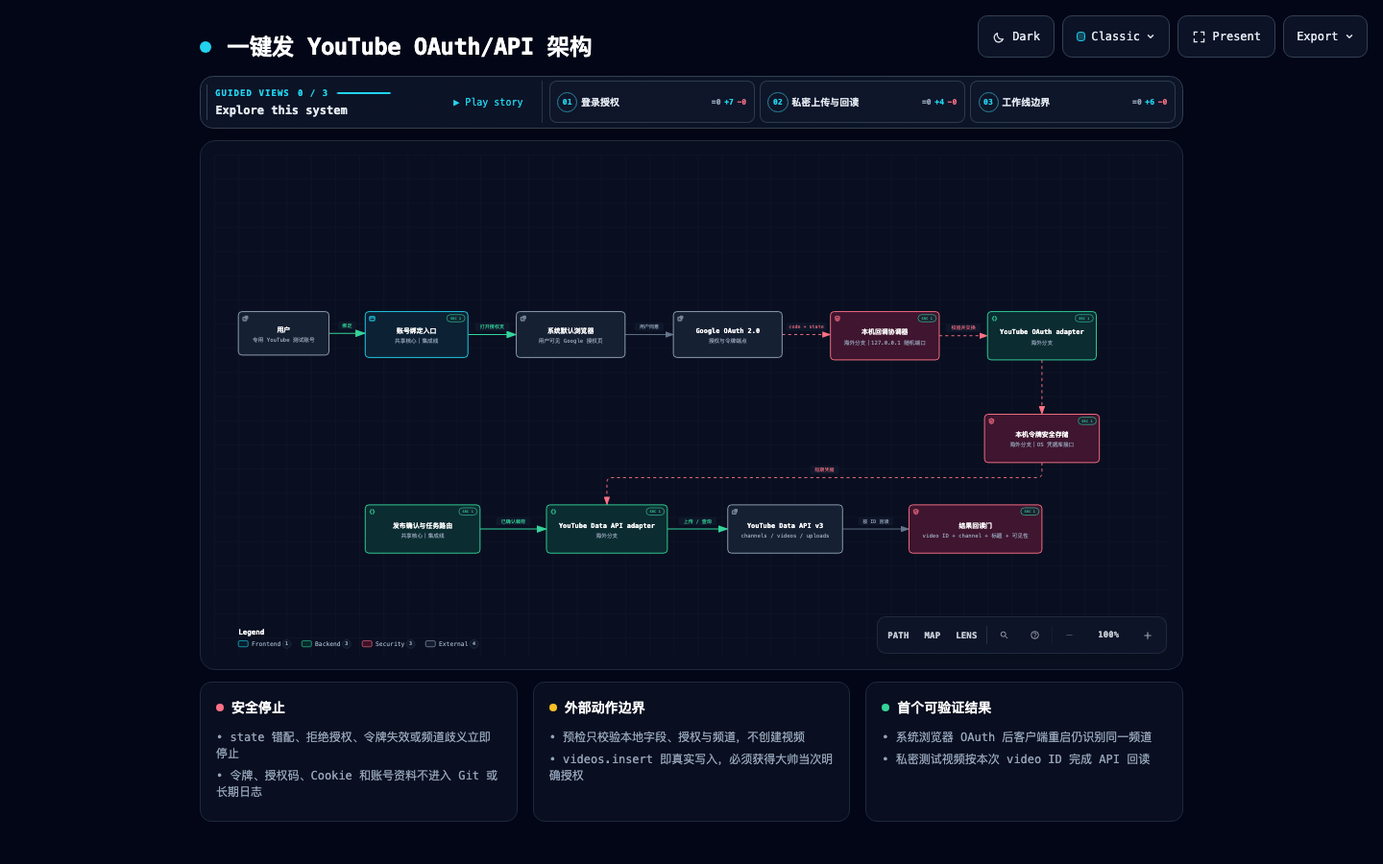
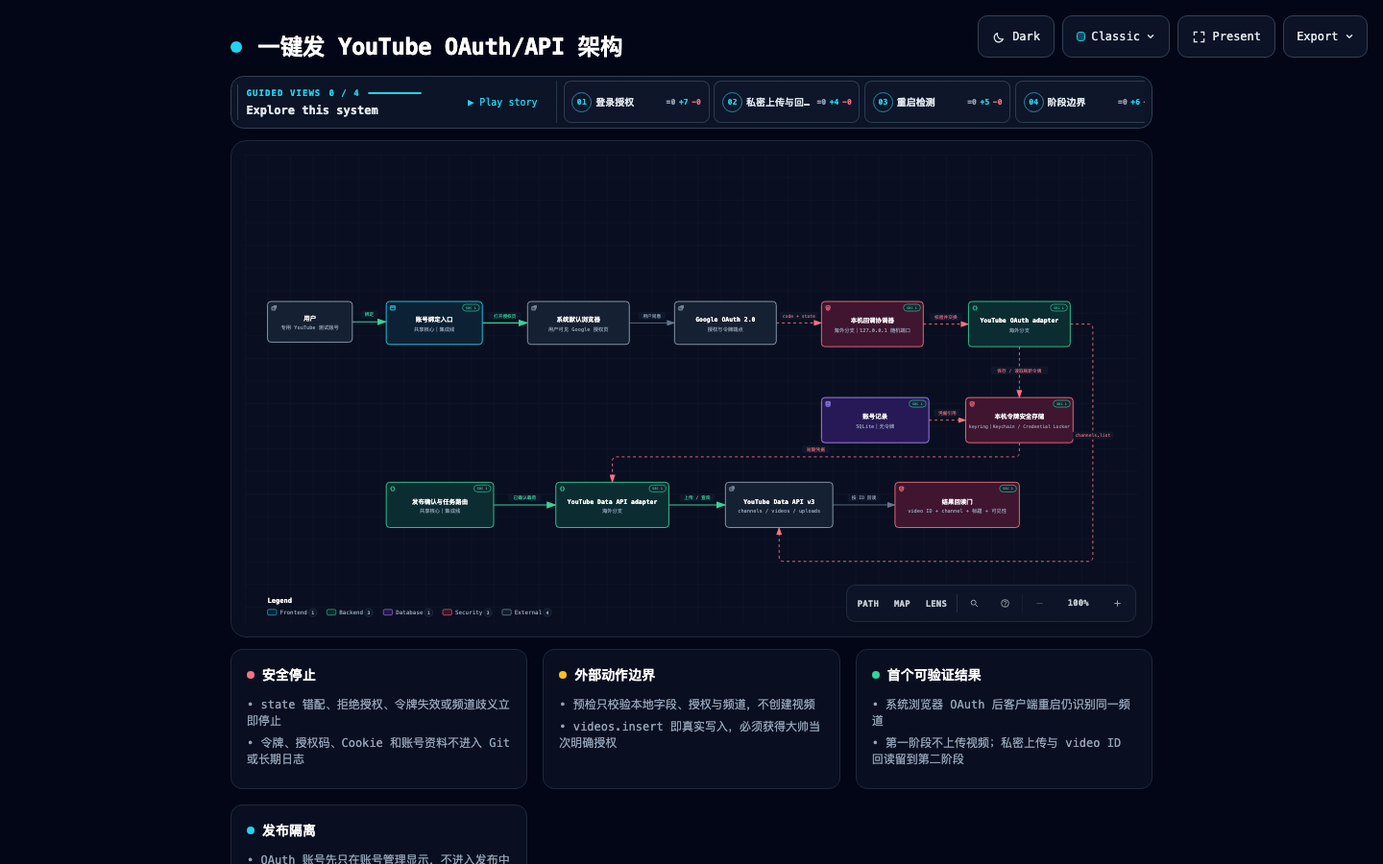
docs(overseas): record youtube desktop login boundary

diff --git a/docs/adr/2026-08-23-youtube-oauth-api-v3.architecture.html b/docs/adr/2026-08-23-youtube-oauth-api-v3.architecture.html
@@ -4869,8 +4869,8 @@
       </div>
     </div>
 
-    <script id="archify-guided-views-data" type="application/json">[{"id":"oauth-flow","label":"登录授权","focus":["user","account_ui","loopback","system_browser","google_oauth","oauth_adapter","token_vault"],"note":"系统浏览器授权，state 与 PKCE 校验后只通过安全存储接口保存刷新令牌。"},{"id":"upload-flow","label":"私密上传与回读","focus":["publish_core","youtube_adapter","youtube_api","receipt_gate"],"note":"未经正式审核时只验证私密上传，并按本次 video ID 回读频道、标题和可见性。"},{"id":"ownership","label":"工作线边界","focus":["account_ui","loopback","token_vault","publish_core","oauth_adapter","youtube_adapter"],"note":"海外分支实现回调、OAuth、凭据库接口与 API adapter；账号 UI 和全局路由由集成线接入。"}]</script>
-    <script id="archify-source-evidence-data" type="application/json">{"schemaVersion":1,"verified":true,"repository":{"url":"https://github.com/tianyiswl/oneclick-publisher","revision":"bf1935aa8683cf4e54cd753ffe9250d597e3fae2","shortRevision":"bf1935a"},"referenceCount":7,"nodes":{"account_ui":[{"path":"QUALITY_GATES.md","line":45,"endLine":57,"label":"共享 UI 边界","href":"https://github.com/tianyiswl/oneclick-publisher/blob/bf1935aa8683cf4e54cd753ffe9250d597e3fae2/QUALITY_GATES.md#L45-L57"}],"loopback":[{"path":"QUALITY_GATES.md","line":15,"endLine":22,"label":"海外专属范围","href":"https://github.com/tianyiswl/oneclick-publisher/blob/bf1935aa8683cf4e54cd753ffe9250d597e3fae2/QUALITY_GATES.md#L15-L22"}],"oauth_adapter":[{"path":"docs/OVERSEAS_PLATFORM_STATUS.md","line":39,"endLine":45,"label":"旧登录路线已阻断","href":"https://github.com/tianyiswl/oneclick-publisher/blob/bf1935aa8683cf4e54cd753ffe9250d597e3fae2/docs/OVERSEAS_PLATFORM_STATUS.md#L39-L45"}],"token_vault":[{"path":"docs/OVERSEAS_PLATFORM_STATUS.md","line":57,"endLine":61,"label":"凭据安全边界","href":"https://github.com/tianyiswl/oneclick-publisher/blob/bf1935aa8683cf4e54cd753ffe9250d597e3fae2/docs/OVERSEAS_PLATFORM_STATUS.md#L57-L61"}],"publish_core":[{"path":"QUALITY_GATES.md","line":122,"endLine":128,"label":"真实验收门槛","href":"https://github.com/tianyiswl/oneclick-publisher/blob/bf1935aa8683cf4e54cd753ffe9250d597e3fae2/QUALITY_GATES.md#L122-L128"}],"youtube_adapter":[{"path":"app_core/overseas_preflight.py","line":128,"endLine":211,"label":"现有预检回执合同","href":"https://github.com/tianyiswl/oneclick-publisher/blob/bf1935aa8683cf4e54cd753ffe9250d597e3fae2/app_core/overseas_preflight.py#L128-L211"}],"receipt_gate":[{"path":"app_core/overseas_video_publish.py","line":141,"endLine":191,"label":"成功回执合同","href":"https://github.com/tianyiswl/oneclick-publisher/blob/bf1935aa8683cf4e54cd753ffe9250d597e3fae2/app_core/overseas_video_publish.py#L141-L191"}]}}</script>
+    <script id="archify-guided-views-data" type="application/json">[{"id":"oauth-flow","label":"登录授权","focus":["user","account_ui","loopback","system_browser","google_oauth","oauth_adapter","token_vault"],"note":"系统浏览器授权，state 与 PKCE 校验后只通过安全存储接口保存刷新令牌。"},{"id":"upload-flow","label":"私密上传与回读","focus":["publish_core","youtube_adapter","youtube_api","receipt_gate"],"note":"未经正式审核时只验证私密上传，并按本次 video ID 回读频道、标题和可见性。"},{"id":"restart-check","label":"重启检测","focus":["account_ui","account_store","token_vault","oauth_adapter","youtube_api"],"note":"数据库只保存凭据引用和频道 ID；重启后从系统凭据库刷新令牌并重新读取同一频道。"},{"id":"ownership","label":"阶段边界","focus":["account_ui","account_store","token_vault","publish_core","oauth_adapter","youtube_adapter"],"note":"第一阶段只接账号登录与重启检测；OAuth 账号在官方发布路由接通前不进入发布目标。"}]</script>
+    <script id="archify-source-evidence-data" type="application/json">{"schemaVersion":1,"verified":true,"repository":{"url":"https://github.com/tianyiswl/oneclick-publisher","revision":"b08a29b016ac633b7335b463250d4e690b49160c","shortRevision":"b08a29b"},"referenceCount":8,"nodes":{"account_ui":[{"path":"QUALITY_GATES.md","line":45,"endLine":57,"label":"共享 UI 边界","href":"https://github.com/tianyiswl/oneclick-publisher/blob/b08a29b016ac633b7335b463250d4e690b49160c/QUALITY_GATES.md#L45-L57"}],"loopback":[{"path":"QUALITY_GATES.md","line":15,"endLine":22,"label":"海外专属范围","href":"https://github.com/tianyiswl/oneclick-publisher/blob/b08a29b016ac633b7335b463250d4e690b49160c/QUALITY_GATES.md#L15-L22"}],"oauth_adapter":[{"path":"docs/OVERSEAS_PLATFORM_STATUS.md","line":39,"endLine":45,"label":"旧登录路线已阻断","href":"https://github.com/tianyiswl/oneclick-publisher/blob/b08a29b016ac633b7335b463250d4e690b49160c/docs/OVERSEAS_PLATFORM_STATUS.md#L39-L45"}],"token_vault":[{"path":"docs/OVERSEAS_PLATFORM_STATUS.md","line":57,"endLine":61,"label":"凭据安全边界","href":"https://github.com/tianyiswl/oneclick-publisher/blob/b08a29b016ac633b7335b463250d4e690b49160c/docs/OVERSEAS_PLATFORM_STATUS.md#L57-L61"}],"account_store":[{"path":"app_core/database.py","line":142,"endLine":143,"label":"账号授权字段","href":"https://github.com/tianyiswl/oneclick-publisher/blob/b08a29b016ac633b7335b463250d4e690b49160c/app_core/database.py#L142-L143"}],"publish_core":[{"path":"QUALITY_GATES.md","line":122,"endLine":128,"label":"真实验收门槛","href":"https://github.com/tianyiswl/oneclick-publisher/blob/b08a29b016ac633b7335b463250d4e690b49160c/QUALITY_GATES.md#L122-L128"}],"youtube_adapter":[{"path":"app_core/overseas_preflight.py","line":128,"endLine":211,"label":"现有预检回执合同","href":"https://github.com/tianyiswl/oneclick-publisher/blob/b08a29b016ac633b7335b463250d4e690b49160c/app_core/overseas_preflight.py#L128-L211"}],"receipt_gate":[{"path":"app_core/overseas_video_publish.py","line":141,"endLine":191,"label":"成功回执合同","href":"https://github.com/tianyiswl/oneclick-publisher/blob/b08a29b016ac633b7335b463250d4e690b49160c/app_core/overseas_video_publish.py#L141-L191"}]}}</script>
     <div class="guided-views no-print" id="guided-views" hidden aria-label="Guided diagram views">
       <button id="guided-view-prev" type="button" aria-label="Previous guided view" title="Previous guided view ([)">&#8592;</button>
       <div class="guided-view-copy">
@@ -4946,11 +4946,13 @@
         <path data-edge-from="system_browser" data-edge-to="google_oauth" data-edge-label="用户同意" data-edge-key="2" data-edge-id="browser-consent" data-composition-points="680,298;760,298" d="M 680 298 L 760 298" class="a-default" stroke-width="1.5" marker-end="url(#arrowhead)"/>
         <path data-edge-from="google_oauth" data-edge-to="loopback" data-edge-label="code + state" data-edge-key="3" data-edge-id="oauth-callback" data-composition-points="940,298;1020,298" d="M 940 298 L 1020 298" class="a-security" stroke-width="1.5" marker-end="url(#arrowhead-security)"/>
         <path data-edge-from="loopback" data-edge-to="oauth_adapter" data-edge-label="校验并交换" data-edge-key="4" data-edge-id="callback-adapter" data-composition-points="1200,300;1280,300" d="M 1200 300 L 1280 300" class="a-security" stroke-width="1.5" marker-end="url(#arrowhead-security)"/>
-        <path data-edge-from="oauth_adapter" data-edge-to="token_vault" data-edge-key="5" data-edge-id="adapter-vault" data-composition-points="1370,340;1370,430" d="M 1370 340 L 1370 430" class="a-security" stroke-width="1.5" marker-end="url(#arrowhead-security)"/>
-        <path data-edge-from="publish_core" data-edge-to="youtube_adapter" data-edge-label="已确认载荷" data-edge-key="6" data-edge-id="publish-adapter" data-composition-points="440,620;550,620" d="M 440 620 L 550 620" class="a-emphasis" stroke-width="1.8" marker-end="url(#arrowhead-emphasis)"/>
-        <path data-edge-from="token_vault" data-edge-to="youtube_adapter" data-edge-label="短期凭据" data-edge-key="7" data-edge-id="vault-api" data-composition-points="1370,510;1370,535;650,535;650,580" d="M 1370 510 L 1370 527 Q 1370 535 1362 535 L 658 535 Q 650 535 650 543 L 650 580" class="a-security" stroke-width="1.5" marker-end="url(#arrowhead-security)"/>
-        <path data-edge-from="youtube_adapter" data-edge-to="youtube_api" data-edge-label="上传 / 查询" data-edge-key="8" data-edge-id="api-call" data-composition-points="750,620;850,620" d="M 750 620 L 850 620" class="a-emphasis" stroke-width="1.8" marker-end="url(#arrowhead-emphasis)"/>
-        <path data-edge-from="youtube_api" data-edge-to="receipt_gate" data-edge-label="按 ID 回读" data-edge-key="9" data-edge-id="api-receipt" data-composition-points="1040,620;1150,620" d="M 1040 620 L 1150 620" class="a-default" stroke-width="1.5" marker-end="url(#arrowhead)"/>
+        <path data-edge-from="oauth_adapter" data-edge-to="token_vault" data-edge-label="保存 / 读取刷新令牌" data-edge-key="5" data-edge-id="adapter-vault" data-composition-points="1370,340;1370,430" d="M 1370 340 L 1370 430" class="a-security" stroke-width="1.5" marker-end="url(#arrowhead-security)"/>
+        <path data-edge-from="account_store" data-edge-to="token_vault" data-edge-label="凭据引用" data-edge-key="6" data-edge-id="account-vault" data-composition-points="1210,470;1275,470" d="M 1210 470 L 1275 470" class="a-security" stroke-width="1.5" marker-end="url(#arrowhead-security)"/>
+        <path data-edge-from="oauth_adapter" data-edge-to="youtube_api" data-edge-label="channels.list" data-edge-key="7" data-edge-id="oauth-channel" data-composition-points="1460,300;1500,300;1500,720;945,720;945,660" d="M 1460 300 L 1492 300 Q 1500 300 1500 308 L 1500 712 Q 1500 720 1492 720 L 953 720 Q 945 720 945 712 L 945 660" class="a-security" stroke-width="1.5" marker-end="url(#arrowhead-security)"/>
+        <path data-edge-from="publish_core" data-edge-to="youtube_adapter" data-edge-label="已确认载荷" data-edge-key="8" data-edge-id="publish-adapter" data-composition-points="440,620;550,620" d="M 440 620 L 550 620" class="a-emphasis" stroke-width="1.8" marker-end="url(#arrowhead-emphasis)"/>
+        <path data-edge-from="token_vault" data-edge-to="youtube_adapter" data-edge-label="短期凭据" data-edge-key="9" data-edge-id="vault-api" data-composition-points="1370,510;1370,535;650,535;650,580" d="M 1370 510 L 1370 527 Q 1370 535 1362 535 L 658 535 Q 650 535 650 543 L 650 580" class="a-security" stroke-width="1.5" marker-end="url(#arrowhead-security)"/>
+        <path data-edge-from="youtube_adapter" data-edge-to="youtube_api" data-edge-label="上传 / 查询" data-edge-key="10" data-edge-id="api-call" data-composition-points="750,620;850,620" d="M 750 620 L 850 620" class="a-emphasis" stroke-width="1.8" marker-end="url(#arrowhead-emphasis)"/>
+        <path data-edge-from="youtube_api" data-edge-to="receipt_gate" data-edge-label="按 ID 回读" data-edge-key="11" data-edge-id="api-receipt" data-composition-points="1040,620;1150,620" d="M 1040 620 L 1150 620" class="a-default" stroke-width="1.5" marker-end="url(#arrowhead)"/>
 
         <!-- Components -->
         <g id="node-user" data-node-id="user" data-node-label="用户" tabindex="0" role="button" aria-label="Focus 用户, 专用 YouTube 测试账号, Architecture component" aria-pressed="false" data-node-kind="external" data-node-sublabel="专用 YouTube 测试账号" data-node-context="Architecture component">
@@ -5030,8 +5032,8 @@
         <text data-detail="fine" x="1370" y="332" class="t-backend" font-size="7" text-anchor="middle">最小 scope</text>
         </g>
 
-        <g id="node-token_vault" data-node-id="token_vault" data-node-label="本机令牌安全存储" tabindex="0" role="button" aria-label="Focus 本机令牌安全存储, 海外分支｜OS 凭据库接口, Architecture component" aria-pressed="false" data-node-kind="security" data-node-sublabel="海外分支｜OS 凭据库接口" data-node-tag="token reference" data-node-context="Architecture component">
-          <title>本机令牌安全存储 · 海外分支｜OS 凭据库接口 · Architecture component · token reference</title>
+        <g id="node-token_vault" data-node-id="token_vault" data-node-label="本机令牌安全存储" tabindex="0" role="button" aria-label="Focus 本机令牌安全存储, keyring｜Keychain / Credential Locker, Architecture component" aria-pressed="false" data-node-kind="security" data-node-sublabel="keyring｜Keychain / Credential Locker" data-node-tag="token reference" data-node-context="Architecture component">
+          <title>本机令牌安全存储 · keyring｜Keychain / Credential Locker · Architecture component · token reference</title>
           <rect x="1275" y="430" width="190" height="80" rx="6" class="c-mask"/>
           <rect x="1275" y="430" width="190" height="80" rx="6" class="c-security" stroke-width="1.5"/>
           <g aria-hidden="true" data-semantic-sigil="security" class="semantic-sigil s-security" transform="translate(1281 436) scale(0.6875)">
@@ -5039,12 +5041,25 @@
             <path d="m5.8 8 1.5 1.5 3-3"/>
           </g>
           <text data-detail-anchor x="1370" y="468" class="t-primary" font-size="11" font-weight="600" text-anchor="middle">本机令牌安全存储</text>
-        <text data-detail="context" x="1370" y="484" class="t-muted" font-size="9" text-anchor="middle">海外分支｜OS 凭据库接口</text>
+        <text data-detail="context" x="1370" y="484" class="t-muted" font-size="8.1" text-anchor="middle">keyring｜Keychain / Credential Locker</text>
         <text data-detail="fine" x="1370" y="502" class="t-security" font-size="7" text-anchor="middle">token reference</text>
         </g>
 
-        <g id="node-publish_core" data-node-id="publish_core" data-node-label="发布确认与任务路由" tabindex="0" role="button" aria-label="Focus 发布确认与任务路由, 共享核心｜集成线, Architecture component" aria-pressed="false" data-node-kind="backend" data-node-sublabel="共享核心｜集成线" data-node-tag="当次明确授权" data-node-context="Architecture component">
-          <title>发布确认与任务路由 · 共享核心｜集成线 · Architecture component · 当次明确授权</title>
+        <g id="node-account_store" data-node-id="account_store" data-node-label="账号记录" tabindex="0" role="button" aria-label="Focus 账号记录, SQLite｜无令牌, Architecture component" aria-pressed="false" data-node-kind="database" data-node-sublabel="SQLite｜无令牌" data-node-tag="credential ref + channel ID" data-node-context="Architecture component">
+          <title>账号记录 · SQLite｜无令牌 · Architecture component · credential ref + channel ID</title>
+          <rect x="1020" y="430" width="190" height="80" rx="6" class="c-mask"/>
+          <rect x="1020" y="430" width="190" height="80" rx="6" class="c-database" stroke-width="1.5"/>
+          <g aria-hidden="true" data-semantic-sigil="database" class="semantic-sigil s-database" transform="translate(1026 436) scale(0.6875)">
+            <ellipse cx="8" cy="4" rx="5" ry="2"/>
+            <path d="M3 4v8c0 1.1 2.2 2 5 2s5-.9 5-2V4M3 8c0 1.1 2.2 2 5 2s5-.9 5-2"/>
+          </g>
+          <text data-detail-anchor x="1115" y="468" class="t-primary" font-size="11" font-weight="600" text-anchor="middle">账号记录</text>
+        <text data-detail="context" x="1115" y="484" class="t-muted" font-size="9" text-anchor="middle">SQLite｜无令牌</text>
+        <text data-detail="fine" x="1115" y="502" class="t-database" font-size="7" text-anchor="middle">credential ref + channel ID</text>
+        </g>
+
+        <g id="node-publish_core" data-node-id="publish_core" data-node-label="发布确认与任务路由" tabindex="0" role="button" aria-label="Focus 发布确认与任务路由, 共享核心｜集成线, Architecture component" aria-pressed="false" data-node-kind="backend" data-node-sublabel="共享核心｜集成线" data-node-tag="第二阶段接线" data-node-context="Architecture component">
+          <title>发布确认与任务路由 · 共享核心｜集成线 · Architecture component · 第二阶段接线</title>
           <rect x="250" y="580" width="190" height="80" rx="6" class="c-mask"/>
           <rect x="250" y="580" width="190" height="80" rx="6" class="c-backend" stroke-width="1.5"/>
           <g aria-hidden="true" data-semantic-sigil="backend" class="semantic-sigil s-backend" transform="translate(256 586) scale(0.6875)">
@@ -5052,11 +5067,11 @@
           </g>
           <text data-detail-anchor x="345" y="618" class="t-primary" font-size="11" font-weight="600" text-anchor="middle">发布确认与任务路由</text>
         <text data-detail="context" x="345" y="634" class="t-muted" font-size="9" text-anchor="middle">共享核心｜集成线</text>
-        <text data-detail="fine" x="345" y="652" class="t-backend" font-size="7" text-anchor="middle">当次明确授权</text>
+        <text data-detail="fine" x="345" y="652" class="t-backend" font-size="7" text-anchor="middle">第二阶段接线</text>
         </g>
 
-        <g id="node-youtube_adapter" data-node-id="youtube_adapter" data-node-label="YouTube Data API adapter" tabindex="0" role="button" aria-label="Focus YouTube Data API adapter, 海外分支, Architecture component" aria-pressed="false" data-node-kind="backend" data-node-sublabel="海外分支" data-node-tag="私密优先" data-node-context="Architecture component">
-          <title>YouTube Data API adapter · 海外分支 · Architecture component · 私密优先</title>
+        <g id="node-youtube_adapter" data-node-id="youtube_adapter" data-node-label="YouTube Data API adapter" tabindex="0" role="button" aria-label="Focus YouTube Data API adapter, 海外分支, Architecture component" aria-pressed="false" data-node-kind="backend" data-node-sublabel="海外分支" data-node-tag="当前不对 UI 开放" data-node-context="Architecture component">
+          <title>YouTube Data API adapter · 海外分支 · Architecture component · 当前不对 UI 开放</title>
           <rect x="550" y="580" width="200" height="80" rx="6" class="c-mask"/>
           <rect x="550" y="580" width="200" height="80" rx="6" class="c-backend" stroke-width="1.5"/>
           <g aria-hidden="true" data-semantic-sigil="backend" class="semantic-sigil s-backend" transform="translate(556 586) scale(0.6875)">
@@ -5064,7 +5079,7 @@
           </g>
           <text data-detail-anchor x="650" y="618" class="t-primary" font-size="11" font-weight="600" text-anchor="middle">YouTube Data API adapter</text>
         <text data-detail="context" x="650" y="634" class="t-muted" font-size="9" text-anchor="middle">海外分支</text>
-        <text data-detail="fine" x="650" y="652" class="t-backend" font-size="7" text-anchor="middle">私密优先</text>
+        <text data-detail="fine" x="650" y="652" class="t-backend" font-size="7" text-anchor="middle">当前不对 UI 开放</text>
         </g>
 
         <g id="node-youtube_api" data-node-id="youtube_api" data-node-label="YouTube Data API v3" tabindex="0" role="button" aria-label="Focus YouTube Data API v3, channels / videos / uploads, Architecture component" aria-pressed="false" data-node-kind="external" data-node-sublabel="channels / videos / uploads" data-node-context="Architecture component">
@@ -5113,20 +5128,31 @@
           <rect x="1211" y="280" width="58" height="14" rx="3" class="c-mask"/>
           <text x="1240" y="290" class="t-security" font-size="8" text-anchor="middle">校验并交换</text>
         </g>
-
-        <g data-detail="context" data-edge-from="publish_core" data-edge-to="youtube_adapter" data-edge-label="已确认载荷" data-edge-key="6" data-edge-id="publish-adapter">
+        <g data-detail="context" data-edge-from="oauth_adapter" data-edge-to="token_vault" data-edge-label="保存 / 读取刷新令牌" data-edge-key="5" data-edge-id="adapter-vault">
+          <rect x="1319.4" y="375" width="101.2" height="14" rx="3" class="c-mask"/>
+          <text x="1370" y="385" class="t-security" font-size="8" text-anchor="middle">保存 / 读取刷新令牌</text>
+        </g>
+        <g data-detail="context" data-edge-from="account_store" data-edge-to="token_vault" data-edge-label="凭据引用" data-edge-key="6" data-edge-id="account-vault">
+          <rect x="1218.3" y="450" width="48.4" height="14" rx="3" class="c-mask"/>
+          <text x="1242.5" y="460" class="t-security" font-size="8" text-anchor="middle">凭据引用</text>
+        </g>
+        <g data-detail="context" data-edge-from="oauth_adapter" data-edge-to="youtube_api" data-edge-label="channels.list" data-edge-key="7" data-edge-id="oauth-channel">
+          <rect x="1463.8" y="490" width="72.4" height="14" rx="3" class="c-mask"/>
+          <text x="1500" y="500" class="t-security" font-size="8" text-anchor="middle">channels.list</text>
+        </g>
+        <g data-detail="context" data-edge-from="publish_core" data-edge-to="youtube_adapter" data-edge-label="已确认载荷" data-edge-key="8" data-edge-id="publish-adapter">
           <rect x="466" y="600" width="58" height="14" rx="3" class="c-mask"/>
           <text x="495" y="610" class="t-backend" font-size="8" text-anchor="middle">已确认载荷</text>
         </g>
-        <g data-detail="context" data-edge-from="token_vault" data-edge-to="youtube_adapter" data-edge-label="短期凭据" data-edge-key="7" data-edge-id="vault-api">
+        <g data-detail="context" data-edge-from="token_vault" data-edge-to="youtube_adapter" data-edge-label="短期凭据" data-edge-key="9" data-edge-id="vault-api">
           <rect x="985.8" y="515" width="48.4" height="14" rx="3" class="c-mask"/>
           <text x="1010" y="525" class="t-security" font-size="8" text-anchor="middle">短期凭据</text>
         </g>
-        <g data-detail="context" data-edge-from="youtube_adapter" data-edge-to="youtube_api" data-edge-label="上传 / 查询" data-edge-key="8" data-edge-id="api-call">
+        <g data-detail="context" data-edge-from="youtube_adapter" data-edge-to="youtube_api" data-edge-label="上传 / 查询" data-edge-key="10" data-edge-id="api-call">
           <rect x="768.6" y="600" width="62.8" height="14" rx="3" class="c-mask"/>
           <text x="800" y="610" class="t-backend" font-size="8" text-anchor="middle">上传 / 查询</text>
         </g>
-        <g data-detail="context" data-edge-from="youtube_api" data-edge-to="receipt_gate" data-edge-label="按 ID 回读" data-edge-key="9" data-edge-id="api-receipt">
+        <g data-detail="context" data-edge-from="youtube_api" data-edge-to="receipt_gate" data-edge-label="按 ID 回读" data-edge-key="11" data-edge-id="api-receipt">
           <rect x="1066" y="600" width="58" height="14" rx="3" class="c-mask"/>
           <text x="1095" y="610" class="t-muted" font-size="8" text-anchor="middle">按 ID 回读</text>
         </g>
@@ -5142,13 +5168,17 @@
             <rect x="145" y="805" width="16" height="10" rx="2.5" class="c-backend" stroke-width="1"/>
             <text x="167" y="814" class="t-muted" font-size="10" font-weight="500">Backend</text>
           </g>
-          <g data-legend-semantic-kind="security" data-legend-kind="security" data-legend-label="Security" data-legend-x="245" data-legend-baseline="814" data-legend-width="83">
-            <rect x="245" y="805" width="16" height="10" rx="2.5" class="c-security" stroke-width="1"/>
-            <text x="267" y="814" class="t-muted" font-size="10" font-weight="500">Security</text>
+          <g data-legend-semantic-kind="database" data-legend-kind="database" data-legend-label="Database" data-legend-x="245" data-legend-baseline="814" data-legend-width="83">
+            <rect x="245" y="805" width="16" height="10" rx="2.5" class="c-database" stroke-width="1"/>
+            <text x="267" y="814" class="t-muted" font-size="10" font-weight="500">Database</text>
           </g>
-          <g data-legend-semantic-kind="external" data-legend-kind="external" data-legend-label="External" data-legend-x="350" data-legend-baseline="814" data-legend-width="83">
-            <rect x="350" y="805" width="16" height="10" rx="2.5" class="c-external" stroke-width="1"/>
-            <text x="372" y="814" class="t-muted" font-size="10" font-weight="500">External</text>
+          <g data-legend-semantic-kind="security" data-legend-kind="security" data-legend-label="Security" data-legend-x="350" data-legend-baseline="814" data-legend-width="83">
+            <rect x="350" y="805" width="16" height="10" rx="2.5" class="c-security" stroke-width="1"/>
+            <text x="372" y="814" class="t-muted" font-size="10" font-weight="500">Security</text>
+          </g>
+          <g data-legend-semantic-kind="external" data-legend-kind="external" data-legend-label="External" data-legend-x="455" data-legend-baseline="814" data-legend-width="83">
+            <rect x="455" y="805" width="16" height="10" rx="2.5" class="c-external" stroke-width="1"/>
+            <text x="477" y="814" class="t-muted" font-size="10" font-weight="500">External</text>
           </g>
         </g>
       </svg>
@@ -5364,7 +5394,18 @@
         </div>
         <ul>
           <li>&bull; 系统浏览器 OAuth 后客户端重启仍识别同一频道</li>
-          <li>&bull; 私密测试视频按本次 video ID 完成 API 回读</li>
+          <li>&bull; 第一阶段不上传视频；私密上传与 video ID 回读留到第二阶段</li>
+        </ul>
+      </div>
+
+      <div class="card">
+        <div class="card-header">
+          <div class="card-dot cyan"></div>
+          <h3>发布隔离</h3>
+        </div>
+        <ul>
+          <li>&bull; OAuth 账号先只在账号管理显示，不进入发布中心</li>
+          <li>&bull; 官方发布路由接通并单独验证后才开放选择</li>
         </ul>
       </div>
     </div>

diff --git a/docs/adr/2026-08-23-youtube-oauth-api-v3.architecture.visual-check.html b/docs/adr/2026-08-23-youtube-oauth-api-v3.architecture.visual-check.html
@@ -9,15 +9,15 @@
 </style>
 </head>
 <body>
-<header><h1>Archify visual-check</h1><p>2026-08-23-youtube-oauth-api-v3.architecture.html · automated containment pass · visual review pending</p></header>
+<header><h1>Archify visual-check</h1><p>2026-08-23-youtube-oauth-api-v3.architecture.html · automated containment fail · visual review pending</p></header>
 <main class="grid">
       <figure>
         <img src="2026-08-23-youtube-oauth-api-v3.architecture.visual-check.1440x900.light.png" alt="light 1440 by 900">
-        <figcaption><strong>LIGHT</strong> · 1440×900 · containment pass</figcaption>
+        <figcaption><strong>LIGHT</strong> · 1440×900 · containment fail</figcaption>
       </figure>
       <figure>
         <img src="2026-08-23-youtube-oauth-api-v3.architecture.visual-check.1440x900.dark.png" alt="dark 1440 by 900">
-        <figcaption><strong>DARK</strong> · 1440×900 · containment pass</figcaption>
+        <figcaption><strong>DARK</strong> · 1440×900 · containment fail</figcaption>
       </figure>
       <figure>
         <img src="2026-08-23-youtube-oauth-api-v3.architecture.visual-check.2048x1320.light.png" alt="light 2048 by 1320">

diff --git a/docs/OVERSEAS_PLATFORM_STATUS.md b/docs/OVERSEAS_PLATFORM_STATUS.md
@@ -2,27 +2,31 @@
 
 ## 统一执行原则
 
-海外平台统一使用一键发自己的本地浏览器会话，不要求用户申请开发者应用，
-也不提供开发者配置或接口授权入口。登录、会话保存、素材填写与结果记录都在
-一键发客户端内完成，不需要启动蚁小二客户端。
+TikTok、Instagram Reels 和 Facebook Reels 继续使用一键发自己的本地浏览器
+会话。YouTube 改用 Google 官方桌面 OAuth：用户在系统默认浏览器授权，刷新令牌
+只进入 macOS Keychain 或 Windows Credential Locker，SQLite 只保存不含令牌的引用
+和频道 ID。YouTube 因此需要 Google Cloud 桌面 OAuth 客户端 ID，但不需要用户逐个
+申请开发者应用。
 
-该产品路线目前仍是浏览器会话路线。下文记录的 YouTube 官方 OAuth/API 适配器
-只是本分支的本地、离线实现，尚未接入共享界面、账号持久化或发布路由，也没有
-接入操作系统凭据存储；它不改变现有产品入口或任何平台的真实可用状态。
+本分支已经完成 YouTube 登录、账号保存和客户端重启检测的本地接线；其中共享界面
+和账户服务改动仍须集成线审查，尚未进入正式客户端。YouTube OAuth 账号在官方发布
+路由接通前不会出现在发布中心，当前也没有配置真实 Google 项目或执行真实授权。
 
 | 平台 | 账号登录与检测 | 视频预检 | 正式动作 | 当前边界 |
 | --- | --- | --- | --- | --- |
 | TikTok | 可见登录、自动保存、静默检测 | 上传并填写文案，停在 Post 前 | 用户确认后可见浏览器立即发布 | 强制公开；定时、AI 声明和自定义封面暂不开放 |
-| YouTube | 可见登录、自动保存、静默检测 | 单账号单视频上传并逐字段回读，停在 SAVE/Publish 前 | 用户确认后可见浏览器立即保存/发布 | 预检已上传视频，关闭流程后平台可能保留私密内容；定时尚未开放 |
+| YouTube | 系统浏览器 OAuth、Keychain/Credential Locker 保存、重启后同频道检测；仅本地测试通过 | 官方 API 零写入本地预检已实现，尚未接发布中心 | 未开放 | 共享接线待集成审查；无真实 Google 项目、账号或上传证据 |
 | Instagram Reels | 与 Facebook 共用 Meta 会话 | 选择 Instagram 目标并填写 Reels | 可见浏览器二次确认后执行 | 验证码、双重验证、风控或未知提示会停止 |
 | Facebook Reels | 与 Instagram 共用 Meta 会话 | 选择 Facebook 目标并填写 Reels | 可见浏览器二次确认后执行 | 只有明确平台回执才记为成功 |
 
 ## 客户端入口
 
-- “绑定账号”在一键发独立浏览器会话中打开平台官网，用户完成登录后自动保存。
+- TikTok 和 Meta 的“绑定账号”在一键发独立浏览器会话中打开平台官网。
+- YouTube 的“绑定账号”在系统默认浏览器打开 Google 官方授权页，授权完成后自动保存频道身份和系统凭据引用；不提供手动保存 Cookie 的回退按钮。
 - “检测登录”默认静默，只检查已保存会话；异常时提示用户手动重新登录，不自动弹出登录页。
 - Instagram 与 Facebook 共用一次 Meta 登录，但在账号列表和发布目标中分别显示。
-- 账号列表只保存平台、主体、显示名、本地会话引用与检测状态。
+- YouTube OAuth 账号会显示在账号管理，但不会进入现有浏览器发布账号列表；其他平台行为不变。
+- 账号数据库不保存 YouTube 刷新令牌或访问令牌，只保存平台、主体、显示名、系统凭据引用、频道 ID 与检测状态。
 
 ## 当前发布门槛
 
@@ -42,11 +46,20 @@
 
 ## 2026-08-23 YouTube 官方 OAuth/API 适配器边界
 
-- 本分支新增的 Google OAuth 和 YouTube 私密上传适配器已经在本地实现，并只用假 HTTP 响应完成离线测试。它们没有接入共享 UI、账号持久化、发布路由或操作系统凭据存储，因此客户端当前不能通过这套适配器完成授权或上传。
+- Google OAuth 和 YouTube 私密上传适配器已经在本地实现，并只用假 HTTP 响应完成离线测试。2026-08-27 又完成了系统浏览器登录、账号持久化、操作系统凭据库和重启检测的分支接线；共享接线提交仍待集成线审查，因此正式客户端当前仍不能通过这套适配器完成授权。私密上传适配器仍未接入共享发布路由。
 - 产品分支没有配置 Google Cloud 项目或 OAuth 客户端。没有进行真实系统浏览器授权、频道身份读取、客户端重启后的登录检测、私密上传、处理完成回执或公开视频结果验证。
 - 本地预检是零写入；私密上传适配器必须取得当前明确确认才会开始。结果核验只读取本次上传返回的精确视频 ID，并且只接受频道、标题和私密可见性都匹配的结果；回读歧义或不匹配就停止。遇到失败或结果不明也不会自动降级到浏览器路线、自动重试或继续上传。这些行为目前都只有离线测试证据，不表示真实上传已经成功。
-- Chrome for Testing 的既有浏览器路线仍被 Google 以“此浏览器或应用可能不安全”拒绝，相关真实登录失败证据保留在本页下一节。这是不再重试该浏览器登录路线、改为接入 Google 官方 OAuth 的依据；官方适配器目前仍只是未接线的本地代码，不等于已取得 Google 或 YouTube 的真实验证。
+- Chrome for Testing 的既有浏览器路线仍被 Google 以“此浏览器或应用可能不安全”拒绝，相关真实登录失败证据保留在本页下一节。这是不再重试该浏览器登录路线、改为接入 Google 官方 OAuth 的依据；新路线虽然已完成分支接线，仍不等于已取得 Google 或 YouTube 的真实验证。
 - 本节只说明 YouTube 的本地代码边界，不表示 TikTok、Instagram Reels 或 Facebook Reels 新增了 OAuth、官方接口或发布能力。
+
+## 2026-08-27 YouTube 桌面登录接线
+
+- “绑定账号”已在本分支改为创建 Google 官方桌面 OAuth 会话，并使用系统默认浏览器、127.0.0.1 随机端口回调、一次性 state 与 PKCE。Google 项目客户端 ID 缺失、用户拒绝、回调不匹配或频道不唯一时都会在写入账号前停止。
+- 刷新令牌通过 `keyring` 进入 macOS Keychain 或 Windows Credential Locker。数据库只保存 `youtube-oauth:` 不透明引用和公开频道 ID；保存数据库失败时会撤销刚写入的系统凭据。
+- 客户端重启后的静默检测会从系统凭据库刷新访问令牌，再调用 `channels.list(mine=true)`，只有读到与数据库完全相同的唯一频道 ID 才记为正常。重新登录若返回另一个频道，也不会覆盖原账号。
+- OAuth 账号目前只在账号管理显示，“打开后台”和浏览器会话头像刷新不可用；发布中心继续只读取浏览器会话账号，防止尚未接通的 OAuth 上传路线被误用。
+- 本地证据为 93 条 YouTube 相关测试和合并当前主线后的 2167 条全量测试通过。测试全部使用假浏览器、假 HTTP、假系统凭据库和临时 SQLite，没有访问 Google，也没有创建、上传或发布视频。
+- 共享接线提交是 `b08a29b`，范围检查按规则返回 `REVIEW_REQUIRED`；它不能由海外分支自行合并。真实 Google 授权必须等集成审查、Google 测试项目和桌面 OAuth 客户端 ID 都准备好后再执行。
 
 ## 2026-08-23 YouTube 首次真实登录结果
 
@@ -54,7 +67,7 @@
 - 用户在 Google 官方登录页输入账号标识后，Google 明确返回“此浏览器或应用可能不安全”，拒绝继续登录。这证明当前浏览器登录路线本身被平台拦截，不是本地账号文件缺失、验证码未填或密码错误。
 - 本次随后在客户端点击“取消登录”；客户端回读“登录已取消，未修改账号会话”，账号列表仍为 0。没有保存 Cookie 或 storage state，没有上传视频，也没有触发 SAVE/Publish。
 - 因首次登录未通过，客户端重启后的静默检测、真实单视频预检和 Content 页回读都没有执行。继续重复打开同一种测试浏览器没有验证价值，也不应通过隐藏自动化特征、复制普通浏览器 Cookie 等方式绕过 Google 安全限制。
-- 下一步是由集成线把 Google 官方 OAuth/API 适配器接入共享界面、账号持久化、操作系统凭据库和发布路由；完成接线后，再经大帅单次授权执行真实系统浏览器授权、重启同频道检测、零写入预检、私密上传和精确 `video ID` 回读。在这两步完成前，YouTube 只能记为本地合同已收紧、既有浏览器登录被平台阻断。
+- 下一步是由集成线审查并接入 `b08a29b` 的共享登录改动；随后配置 Google 测试项目和桌面 OAuth 客户端 ID，再经大帅单次授权执行真实系统浏览器授权与重启同频道检测。发布路由、私密上传和精确 `video ID` 回读属于后续独立阶段，不能由登录通过推定为可用。
 
 ## 尚未完成的真实验收
 
@@ -62,12 +75,12 @@
 账号与测试视频执行平台验收。下一步需要在一键发中逐个平台绑定专用测试账号，再验证
 身份、字段、素材、最终按钮、验证挑战以及平台内容列表回执。
 
-YouTube 的现有静默检测会用已保存会话重新打开 Studio，并判断是否进入频道后台；它还没有
-用专用测试账号证明客户端重启后仍能识别同一频道身份，也没有当前真实账号的上传权限回读。
-这两项仍属于真实验收缺口，不能由离线测试替代。
+YouTube 的新静默检测会用系统凭据库中的刷新令牌调用官方频道接口，并要求读回同一频道 ID；
+它还没有用专用测试账号证明客户端重启后仍能识别同一频道身份，也没有当前真实账号的上传
+权限回读。这两项仍属于真实验收缺口，不能由离线测试替代。
 
 ## 安全边界
 
-- 二维码、Cookie、storage state 和账号凭据不写入代码仓库、安装包、发布包或长期日志。
+- 二维码、Cookie、storage state、OAuth 授权码和令牌不写入代码仓库、安装包、发布包或长期日志。
 - 登录失效、验证码、二次验证、风控和未知合规提示都是安全停止条件。
 - 平台动作失败或回执不明确时不会自动盲目重试，避免重复发布。
